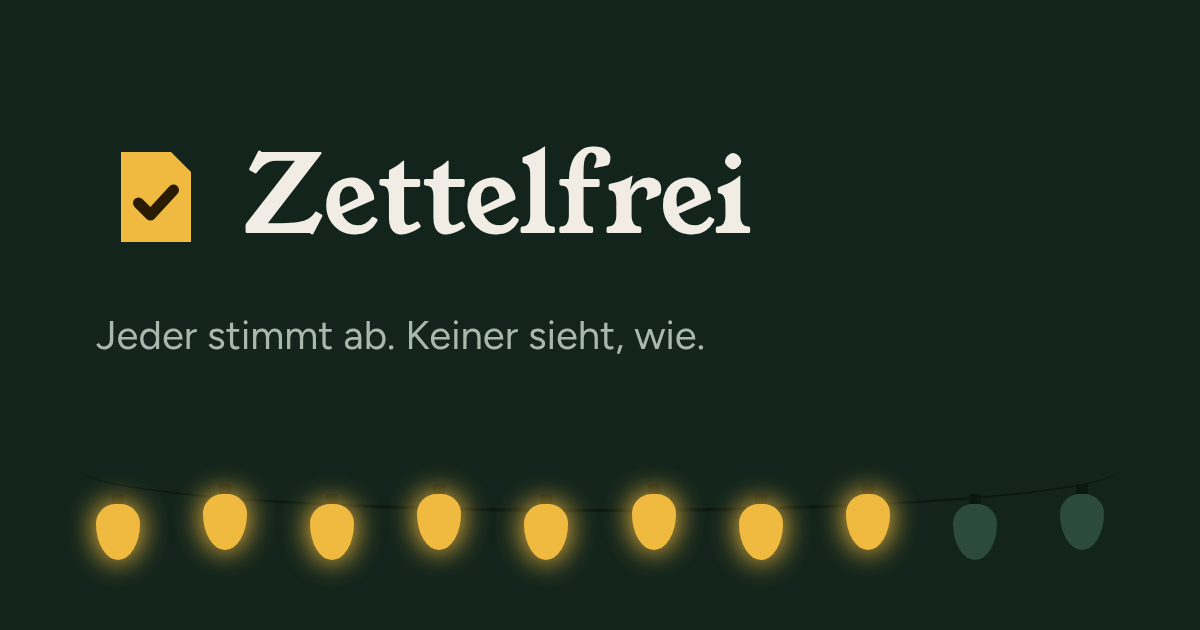
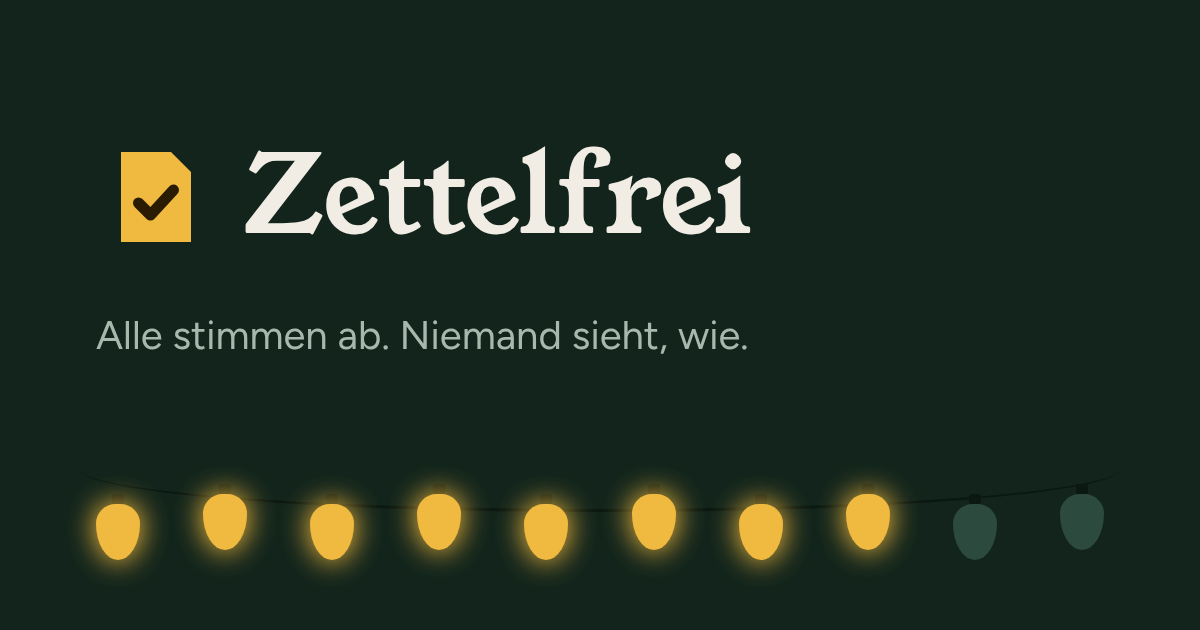
Add demo room generator, use gender-neutral wording

Changed region(s): [[0.0617, 0.5127, 0.6167, 0.573]]

diff --git a/app/Support/DemoRoom.php b/app/Support/DemoRoom.php
@@ -1,0 +1,169 @@
+<?php
+
+namespace App\Support;
+
+use App\Models\Ballot;
+use App\Models\Participant;
+use App\Models\Preset;
+use App\Models\Room;
+use App\Models\Station;
+use App\Models\User;
+use Illuminate\Support\Facades\DB;
+use Illuminate\Support\Str;
+
+class DemoRoom
+{
+    public const RUNNING = 'running';
+
+    public const READY = 'ready';
+
+    private const PEOPLE = ['Anna', 'Ben', 'Clara', 'David', 'Emma', 'Felix', 'Greta', 'Hannes'];
+
+    private const DATA = [
+        'trees' => [
+            'name' => 'Demo: Baumbewertung',
+            'entries' => ['Familie Müller', 'Familie Schmidt', 'Oma & Opa', 'Familie Weber', 'Tante Gabi'],
+            'preset' => 'Weihnachtsbaum',
+            'members' => ['Anna' => 0, 'Ben' => 0, 'Clara' => 1, 'David' => 1, 'Emma' => 3, 'Felix' => 3, 'Greta' => 4],
+        ],
+        'contest' => [
+            'name' => 'Demo: Plätzchen-Wettbewerb',
+            'entries' => ['Zimtsterne', 'Vanillekipferl', 'Spritzgebäck', 'Lebkuchen', 'Kokosmakronen'],
+            'preset' => 'Essen & Backen',
+            'members' => ['Anna' => 0, 'Ben' => 1, 'Clara' => 2, 'David' => 3, 'Emma' => 4],
+        ],
+        'poll' => [
+            'name' => 'Demo: Wohin gehen wir essen?',
+            'entries' => ['Italiener', 'Grieche', 'Burgerladen', 'Sushi', 'Mexikaner'],
+            'preset' => null,
+            'members' => [],
+        ],
+    ];
+
+    public static function create(User $owner, string $template, string $state): Room
+    {
+        $data = self::DATA[$template];
+        $settings = Room::TEMPLATES[$template];
+
+        return DB::transaction(function () use ($owner, $template, $state, $data, $settings) {
+            $room = new Room([
+                'name' => $data['name'],
+                'theme' => $settings['theme'],
+                'mode' => $settings['mode'],
+                'rating_style' => $settings['rating_style'],
+                'item_label' => $settings['item_label'],
+                'items_label' => $settings['items_label'],
+                'exclude_own' => $settings['exclude_own'],
+                'photos_enabled' => $settings['photos_enabled'],
+                'one_at_a_time' => $settings['one_at_a_time'],
+                'max_choices' => $settings['max_choices'],
+            ]);
+            $room->user_id = $owner->id;
+            $room->save();
+
+            if ($data['preset']) {
+                $criteria = Preset::whereNull('user_id')->where('name', $data['preset'])->value('criteria')
+                    ?? ['Gesamteindruck'];
+                foreach ($criteria as $i => $name) {
+                    $room->criteria()->create(['name' => $name, 'position' => $i]);
+                }
+            }
+
+            $stations = collect($data['entries'])->map(fn ($name, $i) => $room->stations()->create(['name' => $name, 'position' => $i]));
+
+            $participants = collect(self::PEOPLE)->map(function ($name) use ($room, $data, $stations) {
+                $index = $data['members'][$name] ?? null;
+
+                return self::participant($room, $name, $index === null ? null : $stations[$index]->id);
+            });
+
+            $room->load('criteria');
+
+            if ($room->isChoice()) {
+                self::fillChoices($room, $stations, $participants, $state);
+            } else {
+                self::fillScores($room, $stations, $participants, $state, $template);
+            }
+
+            return $room;
+        });
+    }
+
+    private static function participant(Room $room, string $name, ?int $stationId): Participant
+    {
+        $token = Str::random(48);
+
+        $participant = $room->participants()->create([
+            'name' => $name,
+            'station_id' => $stationId,
+            'token_hash' => hash('sha256', $token),
+        ]);
+        $participant->plainToken = $token;
+
+        return $participant;
+    }
+
+    private static function fillScores(Room $room, $stations, $participants, string $state, string $template): void
+    {
+        $quality = $stations->mapWithKeys(fn ($s) => [$s->id => random_int(45, 90) / 10]);
+        $last = $stations->count() - 1;
+
+        foreach ($stations as $i => $station) {
+            $running = $state === self::RUNNING;
+            $isCurrent = $running && ($room->one_at_a_time ? $i === $last : true);
+
+            $station->update(['status' => $isCurrent ? Station::OPEN : Station::CLOSED]);
+
+            $voters = $participants->filter(fn ($p) => $p->canRate($station))->values();
+
+            if ($isCurrent) {
+                $voters = $voters->take((int) ceil($voters->count() * ($room->one_at_a_time ? 0.5 : 0.6)));
+            }
+
+            foreach ($voters as $participant) {
+                $ballot = Ballot::create([
+                    'station_id' => $station->id,
+                    'voter_hash' => $participant->voterHashFor($station),
+                ]);
+
+                foreach ($room->criteria as $criterion) {
+                    $score = (int) round($quality[$station->id] + random_int(-18, 18) / 10);
+                    $ballot->ratings()->create([
+                        'criterion_id' => $criterion->id,
+                        'score' => max(1, min(10, $score)),
+                    ]);
+                }
+            }
+        }
+    }
+
+    private static function fillChoices(Room $room, $stations, $participants, string $state): void
+    {
+        $weights = $stations->mapWithKeys(fn ($s, $i) => [$s->id => [6, 3, 4, 2, 1][$i] ?? 1]);
+        $voters = $state === self::RUNNING ? $participants->take(5) : $participants;
+
+        foreach ($voters as $participant) {
+            $pick = self::weightedPick($weights->all());
+            $room->choices()->create([
+                'station_id' => $pick,
+                'voter_hash' => $room->voterHash($participant),
+            ]);
+        }
+
+        $room->update(['voting_open' => $state === self::RUNNING]);
+    }
+
+    private static function weightedPick(array $weights): int
+    {
+        $roll = random_int(1, array_sum($weights));
+
+        foreach ($weights as $id => $weight) {
+            $roll -= $weight;
+            if ($roll <= 0) {
+                return $id;
+            }
+        }
+
+        return array_key_first($weights);
+    }
+}

diff --git a/resources/views/rooms/create.blade.php b/resources/views/rooms/create.blade.php
@@ -75,13 +75,13 @@
                         <input data-form-type="other" type="radio" name="mode" value="{{ $key }}" x-model="mode" class="peer sr-only">
                         <span class="block h-full rounded-2xl p-3.5 ring-1 ring-line ring-inset peer-checked:ring-2 peer-checked:ring-glow peer-focus-visible:outline-3 peer-focus-visible:outline-glow">
                             <span class="block font-semibold">{{ $label }}</span>
-                            <span class="mt-0.5 block text-sm text-muted">{{ $key === 'score' ? 'Jeder gibt 1 bis 10 Punkte pro Kriterium' : 'Jeder wählt seine Favoriten aus' }}</span>
+                            <span class="mt-0.5 block text-sm text-muted">{{ $key === 'score' ? 'Alle geben 1 bis 10 Punkte pro Kriterium' : 'Alle wählen ihre Favoriten aus' }}</span>
                         </span>
                     </label>
                 @endforeach
             </div>
             <div x-show="mode === 'choice'" x-cloak class="mt-4 flex items-center justify-between gap-4">
-                <label for="max_choices" class="font-semibold">Wie viele darf jeder auswählen?</label>
+                <label for="max_choices" class="font-semibold">Wie viele darf man auswählen?</label>
                 <input data-form-type="other" id="max_choices" name="max_choices" @error('max_choices') aria-invalid="true" @enderror type="number" min="1" max="10" x-model.number="max_choices" class="field w-20 text-center">
             </div>
         </section>
@@ -134,7 +134,7 @@
         </section>
 
         <section class="panel divide-y divide-line px-5 py-2">
-            <x-toggle name="exclude_own" model="exclude_own" :checked="$initial['exclude_own']" label="Eigenen Eintrag ausschließen" hint="Beim Beitritt gibt jeder an, ob er selbst zu einem Eintrag gehört, und stimmt dafür nicht mit ab." />
+            <x-toggle name="exclude_own" model="exclude_own" :checked="$initial['exclude_own']" label="Eigenen Eintrag ausschließen" hint="Beim Beitritt geben alle an, ob sie selbst zu einem Eintrag gehören, und stimmen dafür nicht mit ab." />
             <x-toggle name="photos_enabled" model="photos_enabled" :checked="$initial['photos_enabled']" label="Fotos erlauben" hint="Alle im Raum können Fotos zu jedem Eintrag hochladen." />
             <div x-show="mode === 'score'">
                 <x-toggle name="one_at_a_time" model="one_at_a_time" :checked="$initial['one_at_a_time']" label="Einer nach dem anderen" hint="Du gibst immer nur einen Eintrag frei, wie bei einem Rundgang. Aus: alle sind gleichzeitig bewertbar." />

diff --git a/tests/Feature/ZettelfreiTest.php b/tests/Feature/ZettelfreiTest.php
@@ -755,4 +755,43 @@ class ZettelfreiTest extends TestCase
         $this->as($room, $token)->post(route('play.vote', [$room, $first]), $this->scores($room, [3, 9]))->assertSessionHasNoErrors();
         $this->assertEqualsCanonicalizing([3, 9], Ballot::first()->ratings->pluck('score')->all());
     }
+
+    public function test_super_admin_creates_demo_rooms(): void
+    {
+        $admin = User::factory()->create(['is_admin' => true]);
+
+        $this->actingAs(User::factory()->create())->post(route('admin.demo'), ['template' => 'trees', 'state' => 'ready'])->assertForbidden();
+
+        foreach (['trees', 'contest', 'poll'] as $template) {
+            foreach (['running', 'ready'] as $state) {
+                $response = $this->actingAs($admin)->post(route('admin.demo'), ['template' => $template, 'state' => $state]);
+                $room = Room::latest('id')->first();
+                $response->assertRedirect(route('rooms.manage', $room));
+
+                $this->assertStringStartsWith('Demo:', $room->name);
+                $this->assertSame(8, $room->participants()->count());
+                $this->assertSame(5, $room->stations()->count());
+
+                if ($room->isChoice()) {
+                    $this->assertSame($state === 'running' ? 5 : 8, $room->voterCount());
+                    $this->assertSame($state === 'running', $room->voting_open);
+                } else {
+                    $this->assertGreaterThan(0, $room->criteria()->count());
+                    $this->assertGreaterThan(0, Ballot::whereIn('station_id', $room->stations()->select('id'))->count());
+                    $open = $room->stations()->where('status', 'open')->count();
+                    $this->assertSame($state === 'ready' ? 0 : ($room->one_at_a_time ? 1 : 5), $open);
+                }
+
+                if ($state === 'ready') {
+                    $this->actingAs($admin)->post(route('rooms.reveal', $room), ['action' => 'all']);
+                    $this->actingAs($admin)->get(route('play.results', $room))->assertOk()->assertSee('Das Ergebnis');
+                }
+            }
+        }
+
+        $trees = Room::where('name', 'Demo: Baumbewertung')->latest('id')->first();
+        foreach ($trees->stations as $station) {
+            $this->assertSame($station->eligibleVoterCount(), $station->ballots()->count());
+        }
+    }
 }

diff --git a/resources/views/admin/rooms.blade.php b/resources/views/admin/rooms.blade.php
@@ -1,6 +1,30 @@
 <x-layouts.app title="Admin – Räume" wide>
     @include('admin.nav')
 
+    <section class="panel mt-6 p-5">
+        <h2 class="text-xl">Demo-Raum erstellen</h2>
+        <p class="mt-1 text-sm text-muted">Ein Raum mit ausgedachten Einträgen, acht Personen und ihren Stimmen, um Zettelfrei vorzuführen.</p>
+        <form novalidate data-form-type="other" method="POST" action="{{ route('admin.demo') }}" class="mt-4 flex flex-wrap items-end gap-3">
+            <input type="hidden" name="_token" value="{{ csrf_token() }}" data-form-type="other">
+            <div>
+                <label for="demo-template" class="mb-1 block text-sm font-semibold">Vorlage</label>
+                <select data-form-type="other" id="demo-template" name="template" class="field min-h-10 w-auto text-base">
+                    @foreach (\App\Models\Room::TEMPLATES as $key => $t)
+                        <option value="{{ $key }}">{{ $t['label'] }}</option>
+                    @endforeach
+                </select>
+            </div>
+            <div>
+                <label for="demo-state" class="mb-1 block text-sm font-semibold">Stand</label>
+                <select data-form-type="other" id="demo-state" name="state" class="field min-h-10 w-auto text-base">
+                    <option value="{{ \App\Support\DemoRoom::RUNNING }}">Abstimmung läuft, selbst mitmachen</option>
+                    <option value="{{ \App\Support\DemoRoom::READY }}">Alle haben abgestimmt, bereit zur Auflösung</option>
+                </select>
+            </div>
+            <button class="btn btn-primary">Demo erstellen</button>
+        </form>
+    </section>
+
     <form novalidate data-form-type="other" method="GET" class="mt-6 flex gap-2">
         <input data-form-type="other" name="q" value="{{ $search }}" placeholder="Name oder Code suchen" class="field max-w-sm">
         <button class="btn btn-quiet shrink-0">Suchen</button>

diff --git a/resources/views/rooms/manage.blade.php b/resources/views/rooms/manage.blade.php
@@ -197,7 +197,7 @@
                     <form novalidate data-form-type="other" method="POST" action="{{ route('rooms.update', $room) }}" class="mt-4">
                         <input type="hidden" name="_token" value="{{ csrf_token() }}" data-form-type="other"> <input type="hidden" name="_method" value="PATCH" data-form-type="other">
                         <input data-form-type="other" type="hidden" name="join_locked" value="{{ $room->join_locked ? 0 : 1 }}">
-                        <button class="text-sm text-muted underline underline-offset-4 hover:text-ink">{{ $room->join_locked ? 'Beitritt wieder erlauben' : 'Keine neuen Teilnehmer mehr zulassen' }}</button>
+                        <button class="text-sm text-muted underline underline-offset-4 hover:text-ink">{{ $room->join_locked ? 'Beitritt wieder erlauben' : 'Keine neuen Leute mehr zulassen' }}</button>
                     </form>
 
                     <div x-show="big" x-cloak x-transition.opacity class="fixed inset-0 z-50 grid place-items-center bg-black/80 p-6" @click="big = false" @keydown.escape.window="big = false">
@@ -212,7 +212,7 @@
                 <section class="panel p-5">
                     <h2 class="text-xl">Dabei</h2>
                     @if ($room->participants->isEmpty())
-                        <p class="mt-2 text-sm text-muted">Noch niemand. Sobald jemand den QR-Code scannt und seinen Namen eingibt, steht er hier.</p>
+                        <p class="mt-2 text-sm text-muted">Noch niemand. Sobald jemand den QR-Code scannt und einen Namen eingibt, erscheint er hier.</p>
                     @else
                         <ul class="mt-3 divide-y divide-line">
                             @foreach ($room->participants as $p)

diff --git a/app/Http/Controllers/AdminController.php b/app/Http/Controllers/AdminController.php
@@ -4,6 +4,7 @@ namespace App\Http\Controllers;
 
 use App\Models\Room;
 use App\Models\Setting;
+use App\Support\DemoRoom;
 use App\Models\User;
 use Illuminate\Http\RedirectResponse;
 use Illuminate\Http\Request;
@@ -32,6 +33,18 @@ class AdminController extends Controller
             'search' => $search,
             'retention' => Room::retentionDays(),
         ]);
+    }
+
+    public function createDemo(Request $request): RedirectResponse
+    {
+        $data = $request->validate([
+            'template' => ['required', Rule::in(array_keys(Room::TEMPLATES))],
+            'state' => ['required', Rule::in([DemoRoom::RUNNING, DemoRoom::READY])],
+        ]);
+
+        $room = DemoRoom::create($request->user(), $data['template'], $data['state']);
+
+        return redirect()->route('rooms.manage', $room)->with('status', 'Demo-Raum erstellt. Personen und Stimmen sind ausgedacht, du kannst über den QR-Code selbst mitmachen.');
     }
 
     public function keepRoom(Room $room): RedirectResponse
@@ -118,6 +131,6 @@ class AdminController extends Controller
 
         $user->delete();
 
-        return back()->with('status', 'Konto von '.$user->name.' gelöscht. Seine Räume bleiben erhalten und sind weiter über ihren Admin-Link erreichbar.');
+        return back()->with('status', 'Konto von '.$user->name.' gelöscht. Die Räume aus diesem Konto bleiben erhalten und sind weiter über ihren Admin-Link erreichbar.');
     }
 }

diff --git a/resources/views/home.blade.php b/resources/views/home.blade.php
@@ -1,6 +1,6 @@
 <x-layouts.app>
     <section class="pt-6">
-        <h1 class="text-[2.6rem] leading-[1.05] sm:text-5xl">Jeder stimmt ab. Keiner sieht, wie.</h1>
+        <h1 class="text-[2.6rem] leading-[1.05] sm:text-5xl">Alle stimmen ab. Niemand sieht, wie.</h1>
         <p class="mt-4 max-w-md text-lg text-muted">Ob Wettbewerb, Bewertung oder Umfrage: Raum erstellen, Code teilen, alle stimmen auf dem Handy ab. Ganz ohne Zettel und Stift.</p>
     </section>
 
@@ -24,7 +24,7 @@
         </li>
         <li class="flex gap-4">
             <span class="font-display w-5 shrink-0 text-2xl text-glow">2</span>
-            <p><span class="font-semibold">Punkte vergeben oder Favoriten wählen.</span> <span class="text-muted">Komplett anonym, und Fotos kann jeder dazulegen.</span></p>
+            <p><span class="font-semibold">Punkte vergeben oder Favoriten wählen.</span> <span class="text-muted">Komplett anonym, und Fotos können alle dazulegen.</span></p>
         </li>
         <li class="flex gap-4">
             <span class="font-display w-5 shrink-0 text-2xl text-glow">3</span>

diff --git a/resources/views/admin/settings.blade.php b/resources/views/admin/settings.blade.php
@@ -5,7 +5,7 @@
 
     <section class="panel mt-6 max-w-xl p-5">
         <h2 class="text-xl">Aussehen der Seite</h2>
-        <p class="mt-1 text-sm text-muted">Gilt für Startseite, Login, „Meine Räume“ und den Admin-Bereich. Räume haben ihr eigenes Aussehen, das beim Raum eingestellt wird. Wer auf seinem Gerät selbst ein Aussehen wählt, sieht überall dieses.</p>
+        <p class="mt-1 text-sm text-muted">Gilt für Startseite, Login, „Meine Räume“ und den Admin-Bereich. Räume haben ihr eigenes Aussehen, das beim Raum eingestellt wird. Wer auf dem eigenen Gerät ein Aussehen wählt, sieht überall dieses.</p>
         <form novalidate data-form-type="other" method="POST" action="{{ route('admin.settings.update') }}" class="mt-4 space-y-4">
             <input type="hidden" name="_token" value="{{ csrf_token() }}" data-form-type="other"> <input type="hidden" name="_method" value="PUT" data-form-type="other">
             <x-theme-options name="site_theme" :selected="$siteTheme" />

diff --git a/routes/web.php b/routes/web.php
@@ -30,6 +30,7 @@ Route::middleware('auth')->group(function () {
 
     Route::middleware('admin')->prefix('/admin')->name('admin.')->group(function () {
         Route::get('/', [AdminController::class, 'rooms'])->name('rooms');
+        Route::post('/demo', [AdminController::class, 'createDemo'])->name('demo');
         Route::post('/raeume/{room}/behalten', [AdminController::class, 'keepRoom'])->name('rooms.keep');
         Route::delete('/raeume/{room}', [AdminController::class, 'destroyRoom'])->name('rooms.destroy');
         Route::get('/einstellungen', [AdminController::class, 'settings'])->name('settings');

diff --git a/resources/views/components/layouts/app.blade.php b/resources/views/components/layouts/app.blade.php
@@ -25,7 +25,7 @@
     <meta property="og:image" content="{{ asset('og-image.png') }}">
     <meta property="og:image:width" content="1200">
     <meta property="og:image:height" content="630">
-    <meta property="og:image:alt" content="{{ config('app.name') }}: Jeder stimmt ab. Keiner sieht, wie.">
+    <meta property="og:image:alt" content="{{ config('app.name') }}: Alle stimmen ab. Niemand sieht, wie.">
     <meta name="twitter:card" content="summary_large_image">
     <meta name="twitter:title" content="{{ $pageTitle }}">
     <meta name="twitter:description" content="{{ $description }}">

diff --git a/app/Models/Room.php b/app/Models/Room.php
@@ -70,8 +70,8 @@ class Room extends Model
         ],
         'poll' => [
             'label' => 'Umfrage',
-            'hint' => 'Jeder wählt eine Option, z. B. wohin es zum Essen geht',
-            'items_hint' => 'Die Antworten, aus denen jeder auswählt.',
+            'hint' => 'Alle wählen eine Option, z. B. wohin es zum Essen geht',
+            'items_hint' => 'Die Antworten, aus denen alle auswählen.',
             'name' => 'Wohin gehen wir?',
             'mode' => self::CHOICE,
             'item_label' => 'Option',

diff --git a/app/Http/Controllers/RoomController.php b/app/Http/Controllers/RoomController.php
@@ -305,7 +305,7 @@ class RoomController extends Controller
 
         $room->participants()->whereKey($participant)->firstOrFail()->delete();
 
-        return back()->with('status', 'Teilnehmer entfernt. Bereits abgegebene Bewertungen bleiben anonym erhalten.');
+        return back()->with('status', 'Aus dem Raum entfernt. Bereits abgegebene Stimmen bleiben anonym erhalten.');
     }
 
     public function reveal(Request $request, Room $room): RedirectResponse
